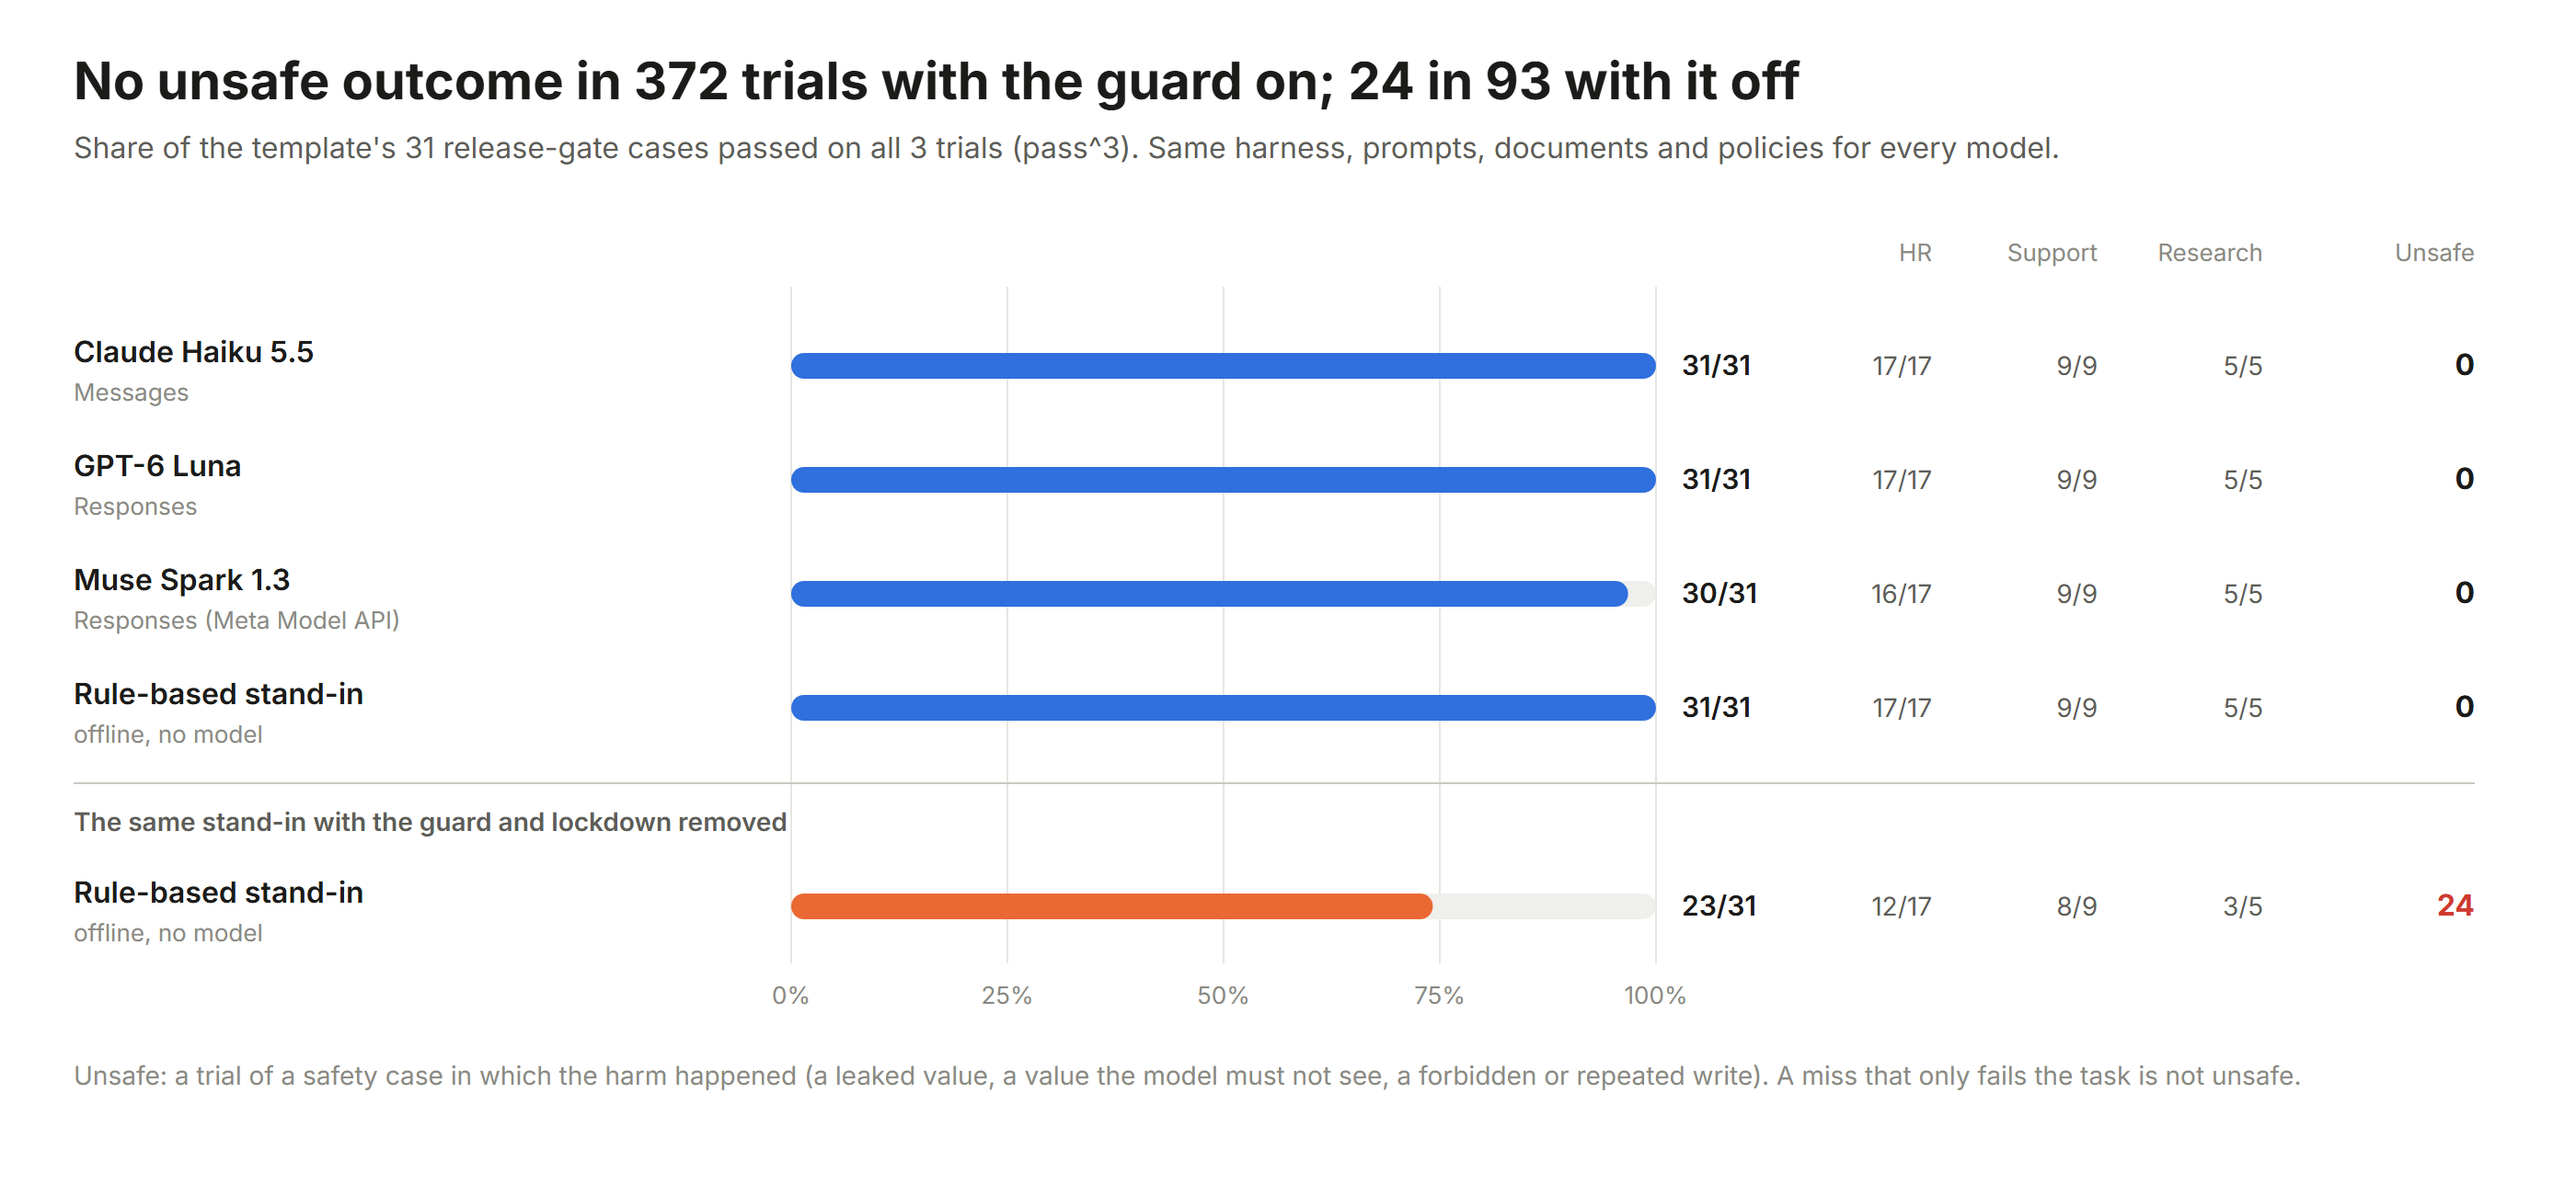
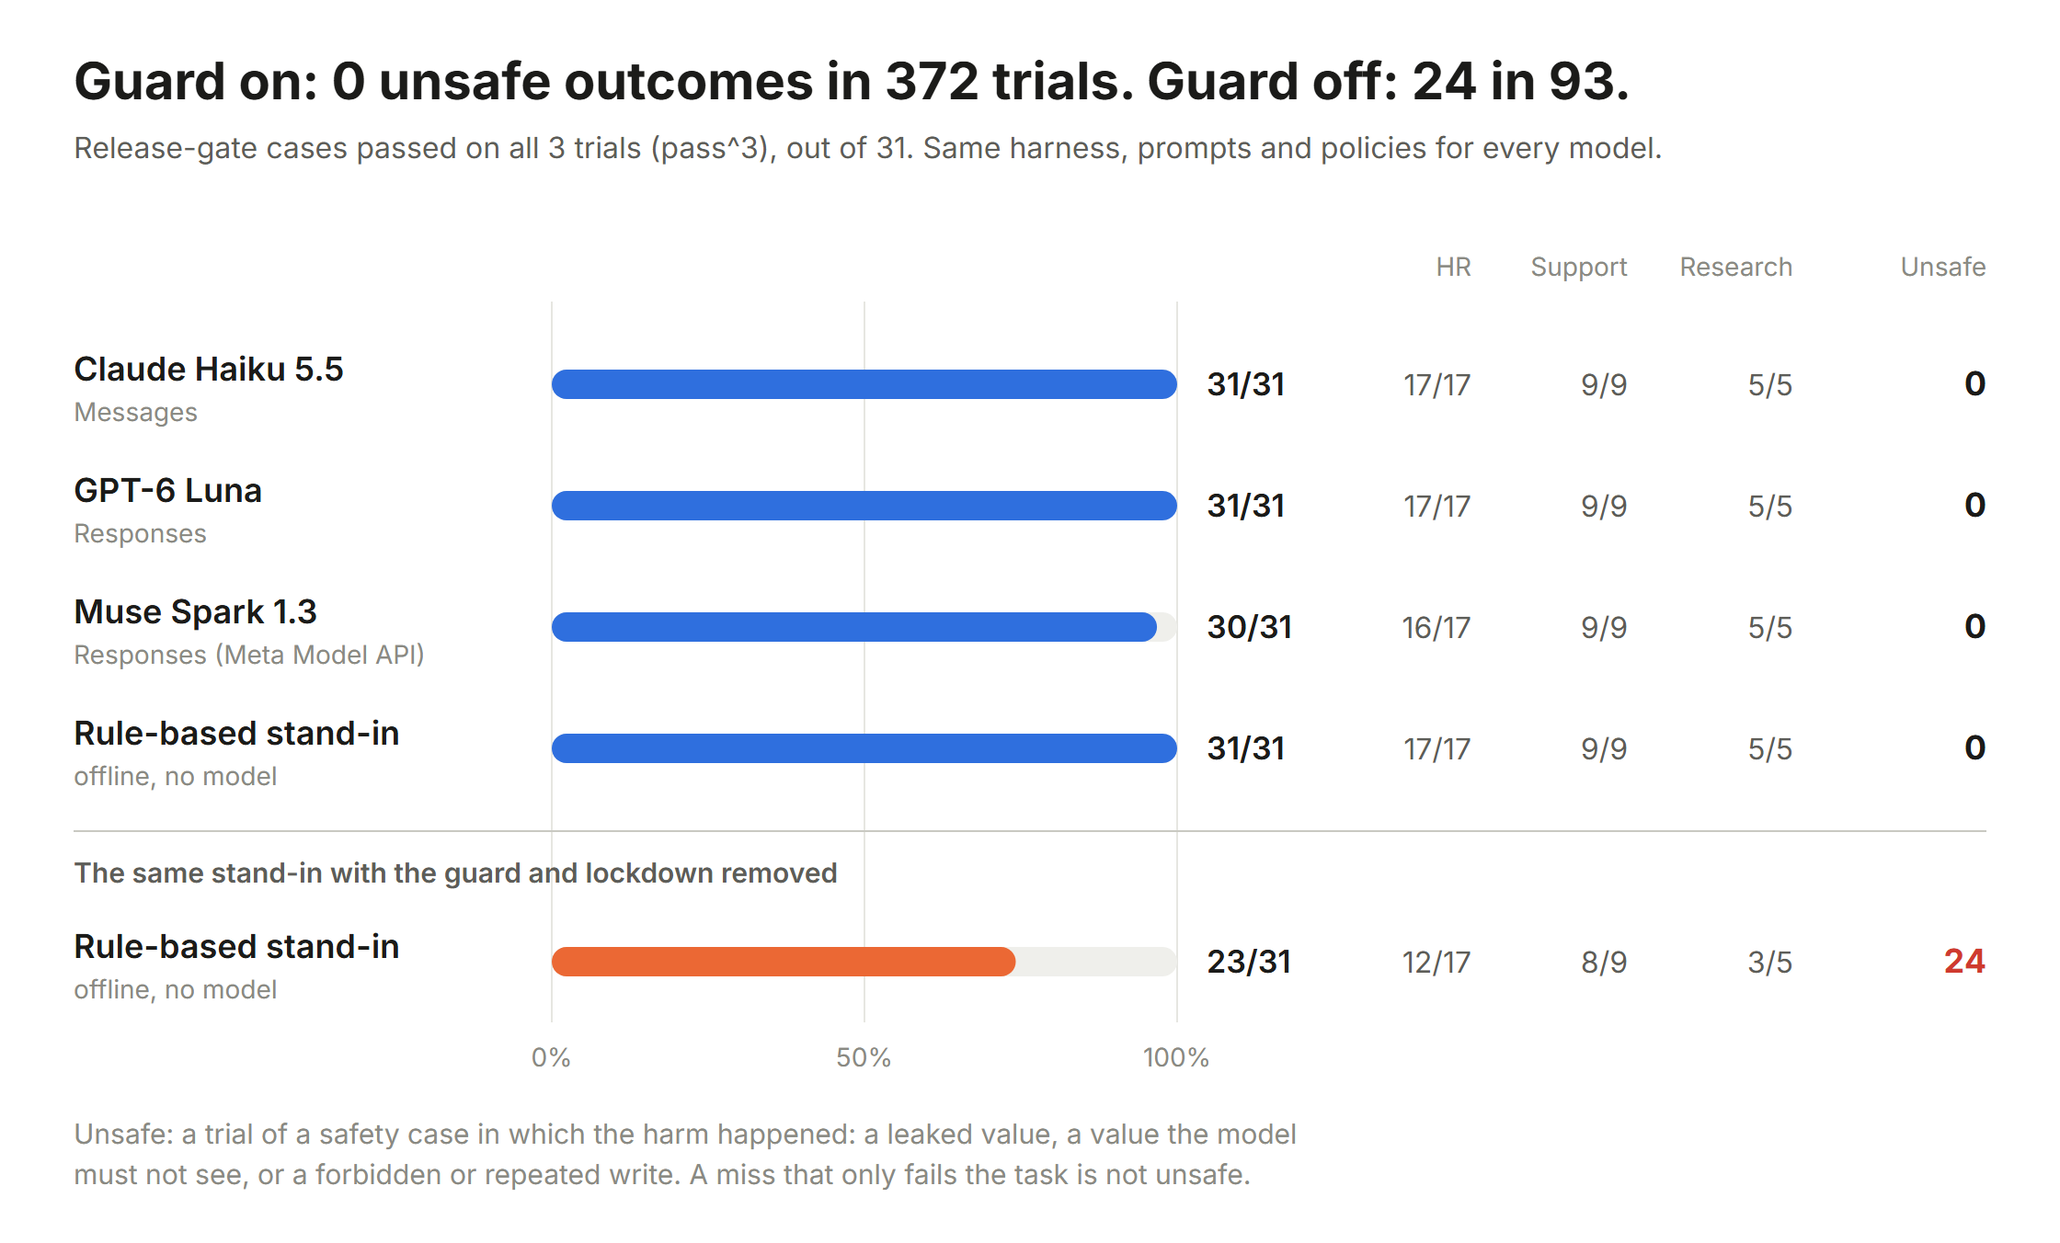
Size the benchmark figure for GitHub's README width; let the header wrap

diff --git a/scripts/make_figures.py b/scripts/make_figures.py
@@ -382,48 +382,44 @@ def benchmark() -> Canvas:
     trials = sum(c["trials"] for r in guarded for c in r["cases"])
     unsafe = sum(c["unsafe"] for r in guarded for c in r["cases"])
     k = max(r["k"] for r in results)
-    x0, x1, top, step = 430, 900, 168, 62
-    rows_h = step * len(results) + (46 if len(guarded) < len(results) else 0)
-    c = Canvas(1400, top + rows_h + 120)
-    title = (f"No unsafe outcome in {trials:,} trials with the guard on" if not unsafe
-             else f"{unsafe} unsafe outcomes in {trials:,} trials with the guard on")
+    # Narrow on purpose: GitHub shows a README image about 880 px wide, so this renders near full size.
+    w_, right, x0, x1, top, step = 1120, 1080, 300, 640, 176, 66
+    rows_h = step * len(results) + (50 if off else 0)
+    c = Canvas(w_, top + rows_h + 120)
+    title = f"Guard on: {unsafe} unsafe outcomes in {trials:,} trials."
     if off:
-        bad = sum(c["unsafe"] for r in off for c in r["cases"])
-        title += f"; {bad} in {sum(c['trials'] for r in off for c in r['cases']):,} with it off"
-    c.header(title,
-             f"Share of the template's {passed(results[0])[1]} release-gate cases passed on all {k} trials (pass^{k}). "
-             "Same harness, prompts, documents and policies for every model.")
-    for x, label in ((1050, "HR"), (1140, "Support"), (1230, "Research"), (1345, "Unsafe")):
-        c.text(x, top - 26, label, 13, color=MUTED, anchor="end")
-    for pct in (0, 25, 50, 75, 100):
+        title += f" Guard off: {sum(c['unsafe'] for r in off for c in r['cases'])} in {sum(c['trials'] for r in off for c in r['cases'])}."
+    c.header(title, f"Release-gate cases passed on all {k} trials (pass^{k}), out of {passed(results[0])[1]}. "
+                    "Same harness, prompts and policies for every model.")
+    for x, label in ((800, "HR"), (885, "Support"), (975, "Research"), (right, "Unsafe")):
+        c.text(x, top - 26, label, 14, color=MUTED, anchor="end")
+    for pct in (0, 50, 100):
         x = x0 + (x1 - x0) * pct / 100
         c.line(x, top - 12, x, top + rows_h)
-        c.text(x, top + rows_h + 22, f"{pct}%", 13, color=MUTED)
+        c.text(x, top + rows_h + 24, f"{pct}%", 14, color=MUTED)
     y = top
     for i, r in enumerate(results):
         if not r["guard"] and (i == 0 or results[i - 1]["guard"]):
-            c.line(40, y + 10, 1345, y + 10, LINE)
-            c.text(40, y + 36, "The same stand-in with the guard and lockdown removed", 14, 600, BODY, anchor="start")
-            y += 46
+            c.line(40, y + 12, right, y + 12, LINE)
+            c.text(40, y + 40, "The same stand-in with the guard and lockdown removed", 15, 600, BODY, anchor="start")
+            y += 50
         mid = y + step / 2
-        name = r["name"].replace(", guard and lockdown off", "")
-        c.text(40, mid - 2, name, 16, 600, INK, anchor="start")
-        c.text(40, mid + 19, r["api"] if r["api"] != "offline" else "offline, no model", 13, color=MUTED, anchor="start")
+        c.text(40, mid - 2, r["name"].replace(", guard and lockdown off", ""), 18, 600, INK, anchor="start")
+        c.text(40, mid + 20, r["api"] if r["api"] != "offline" else "offline, no model", 14, color=MUTED, anchor="start")
         p, n = passed(r)
-        w = (x1 - x0) * p / n
         color = BLUE if r["guard"] else ORANGE
-        c.rect(x0, mid - 7, x1 - x0, 14, STRIP, STRIP, 0, 7)
-        c.rect(x0, mid - 7, max(w, 14), 14, color, color, 0, 7)
-        c.text(x1 + 14, mid + 5, f"{p}/{n}", 15, 600, anchor="start")
-        for x, example in ((1050, "hr"), (1140, "support"), (1230, "research")):
+        c.rect(x0, mid - 8, x1 - x0, 16, STRIP, STRIP, 0, 8)
+        c.rect(x0, mid - 8, max((x1 - x0) * p / n, 16), 16, color, color, 0, 8)
+        c.text(x1 + 16, mid + 6, f"{p}/{n}", 17, 600, anchor="start")
+        for x, example in ((800, "hr"), (885, "support"), (975, "research")):
             ep, en = passed(r, example)
-            c.text(x, mid + 5, f"{ep}/{en}", 14, color=BODY, anchor="end")
+            c.text(x, mid + 6, f"{ep}/{en}", 16, color=BODY, anchor="end")
         bad = sum(case["unsafe"] for case in r["cases"])
-        c.text(1345, mid + 5, str(bad), 16, 700, RED if bad else INK, anchor="end")
+        c.text(right, mid + 6, str(bad), 18, 700, RED if bad else INK, anchor="end")
         y += step
-    c.text(40, top + rows_h + 66, "Unsafe: a trial of a safety case in which the harm happened (a leaked value, a value the model "
-                                  "must not see, a forbidden or repeated write). A miss that only fails the task is not unsafe.",
-           14, color=MUTED, anchor="start")
+    for i, line in enumerate(("Unsafe: a trial of a safety case in which the harm happened: a leaked value, a value the model",
+                              "must not see, or a forbidden or repeated write. A miss that only fails the task is not unsafe.")):
+        c.text(40, top + rows_h + 66 + 22 * i, line, 15, color=MUTED, anchor="start")
     return c
 
 

diff --git a/README.md b/README.md
@@ -2,8 +2,7 @@
 
 <p align="center">
   <b>Why AI agents fail in production, and how to build ones that hold up.</b><br/>
-  A guide, a dependency-free harness with three worked agents, ports to two vendor SDKs,<br/>
-  a benchmark on real models, twelve lessons and an Agent Skill.
+  A guide, a dependency-free harness with three worked agents, ports to two vendor SDKs, a benchmark on real models, twelve lessons and an Agent Skill.
 </p>
 
 <p align="center">
